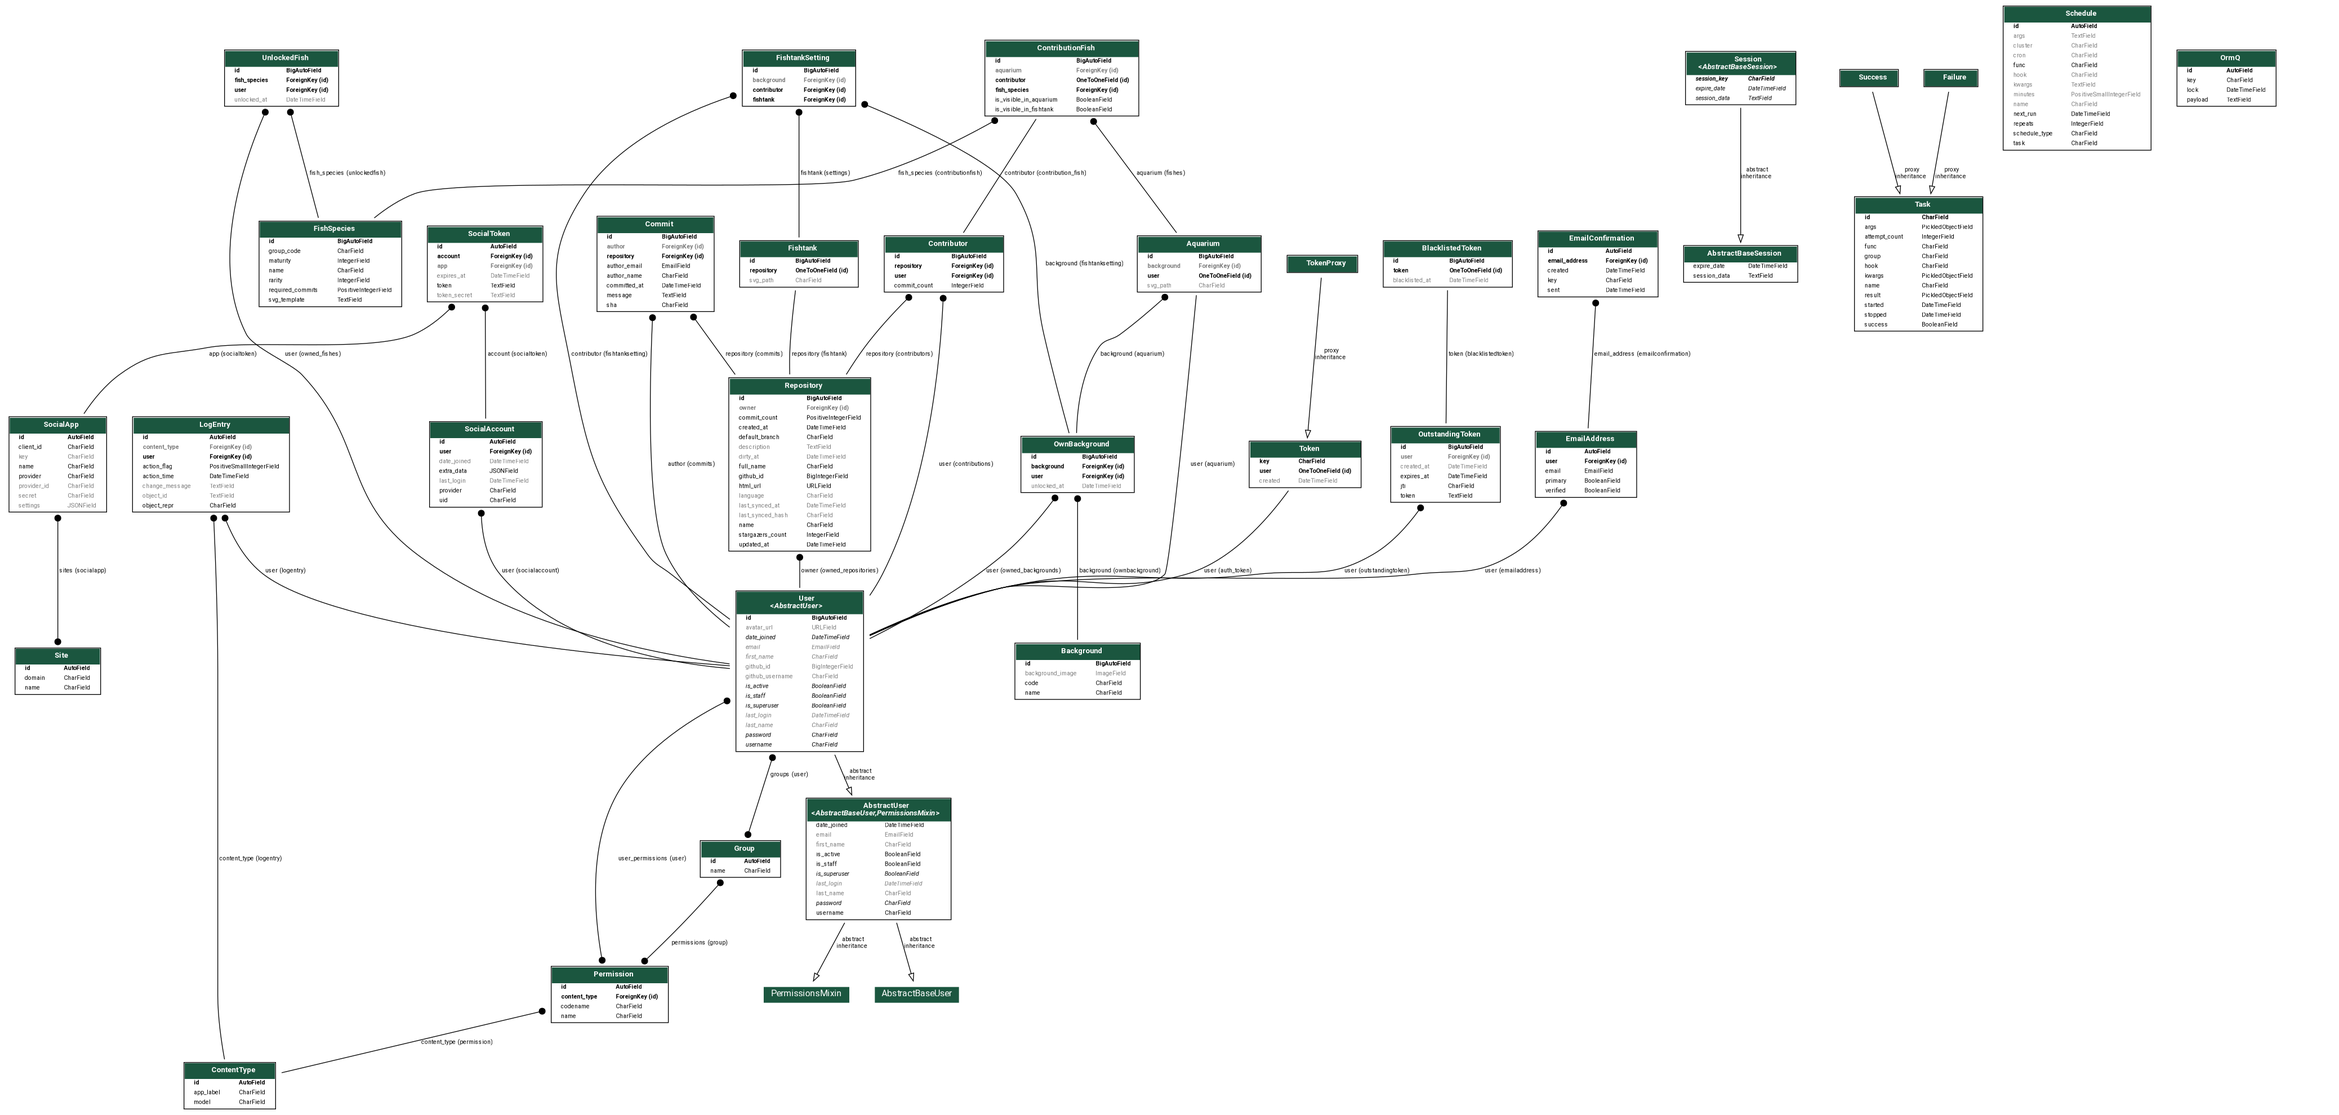
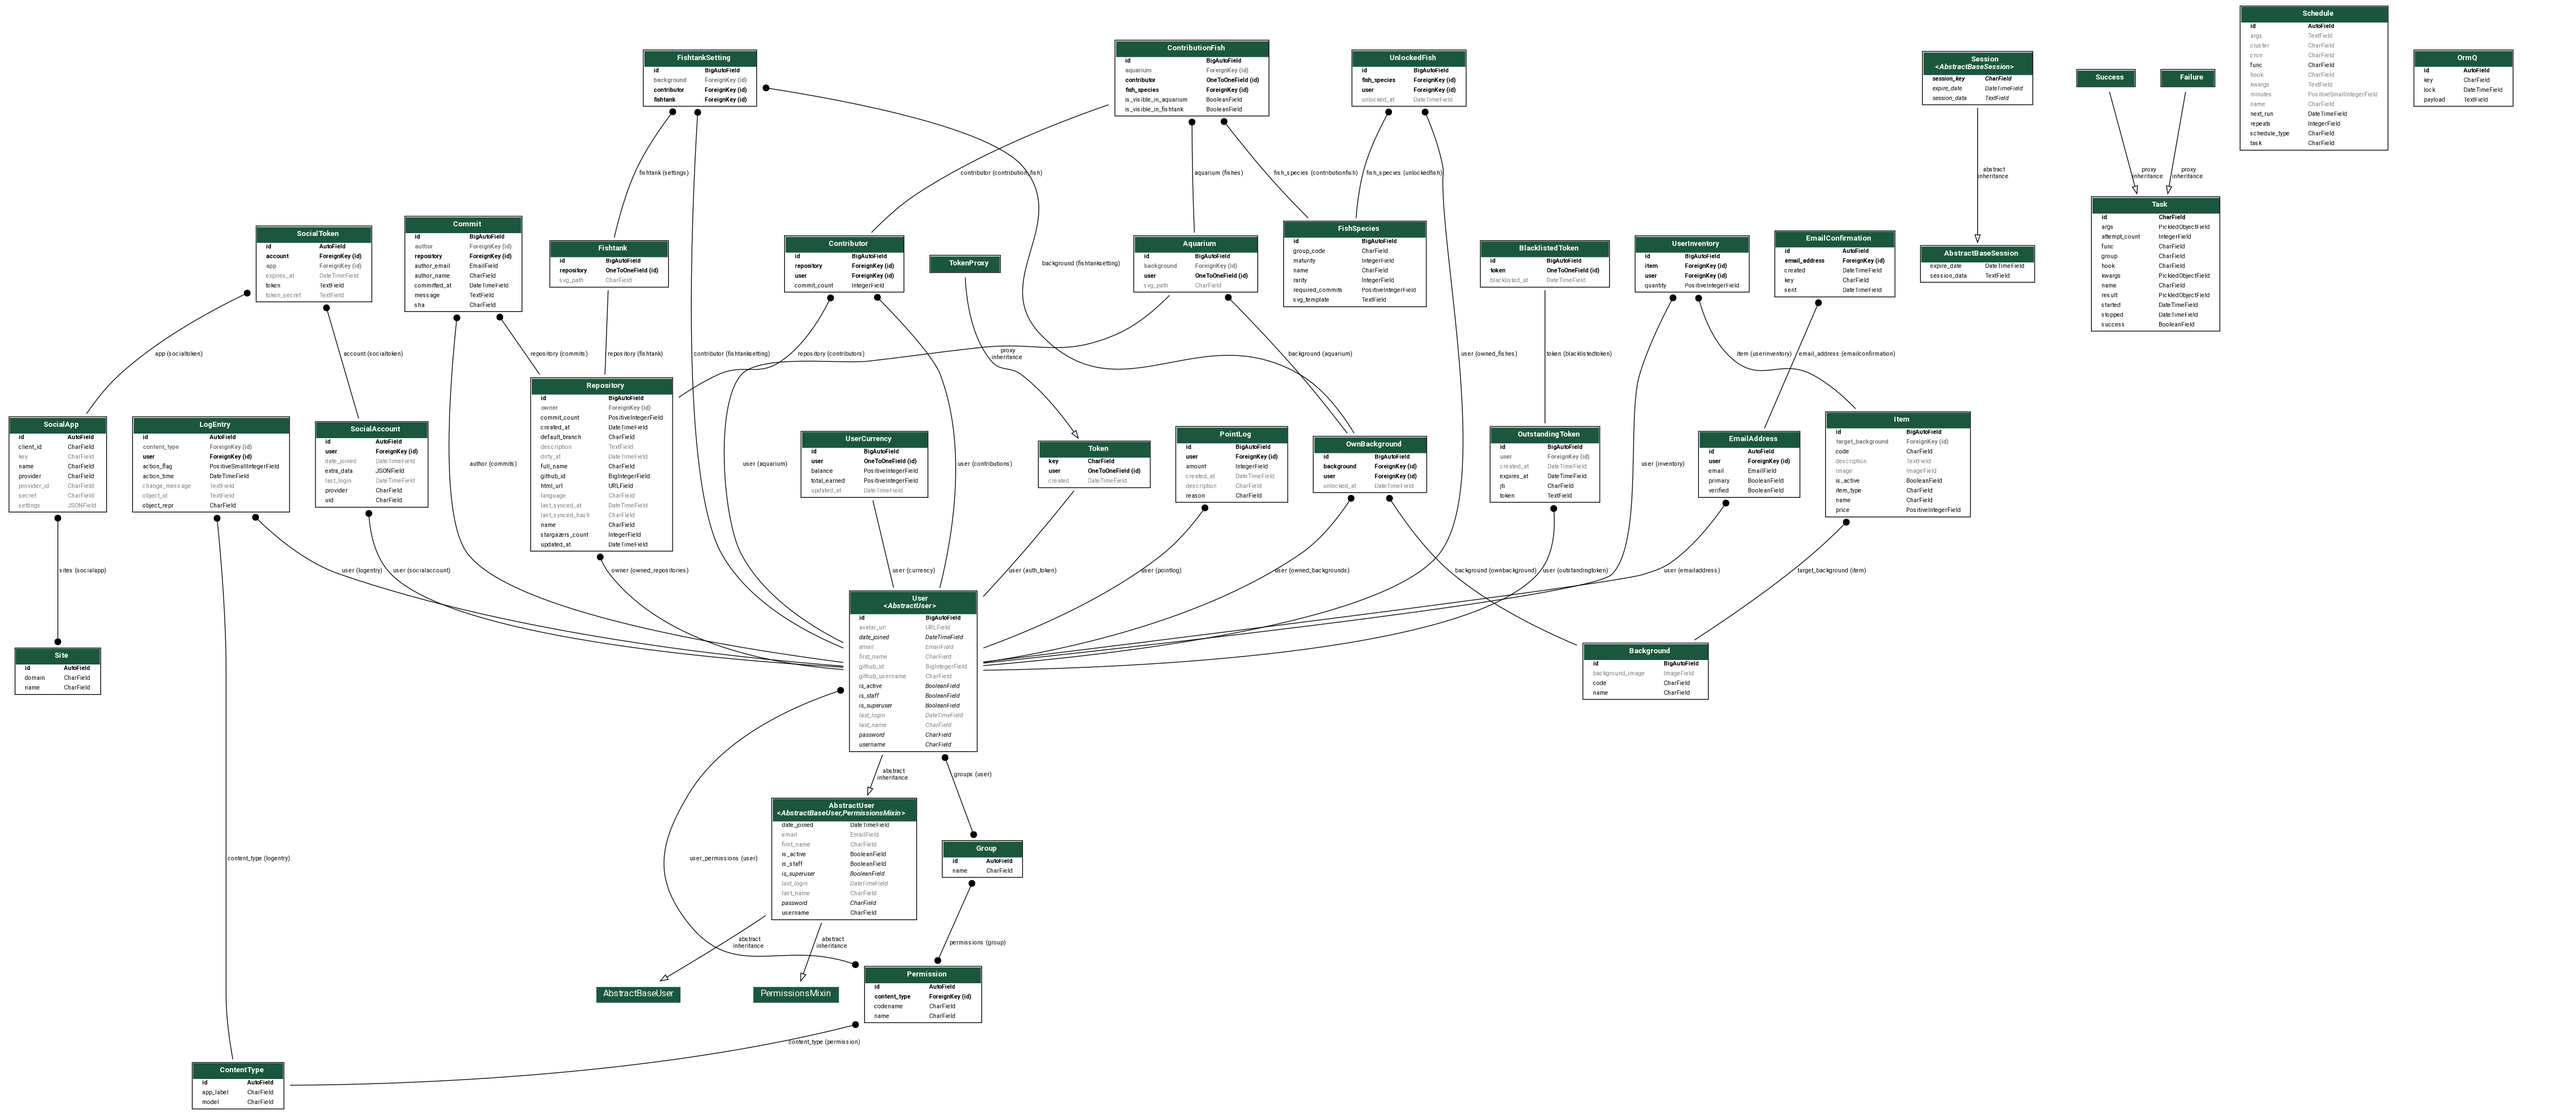
[feat] startapp shop

diff --git a/apps/shop/migrations/0001_initial.py b/apps/shop/migrations/0001_initial.py
@@ -1,0 +1,51 @@
+# Generated by Django 4.2.27 on 2025-12-18 05:06
+
+from django.conf import settings
+from django.db import migrations, models
+import django.db.models.deletion
+
+
+class Migration(migrations.Migration):
+
+    initial = True
+
+    dependencies = [
+        migrations.swappable_dependency(settings.AUTH_USER_MODEL),
+        ('items', '0003_item'),
+    ]
+
+    operations = [
+        migrations.CreateModel(
+            name='UserCurrency',
+            fields=[
+                ('id', models.BigAutoField(auto_created=True, primary_key=True, serialize=False, verbose_name='ID')),
+                ('balance', models.PositiveIntegerField(default=0)),
+                ('total_earned', models.PositiveIntegerField(default=0, help_text='누적 획득량(통계용)')),
+                ('updated_at', models.DateTimeField(auto_now=True)),
+                ('user', models.OneToOneField(on_delete=django.db.models.deletion.CASCADE, related_name='currency', to=settings.AUTH_USER_MODEL)),
+            ],
+        ),
+        migrations.CreateModel(
+            name='PointLog',
+            fields=[
+                ('id', models.BigAutoField(auto_created=True, primary_key=True, serialize=False, verbose_name='ID')),
+                ('amount', models.IntegerField(help_text='변동량 (양수: 획득, 음수: 소비)')),
+                ('reason', models.CharField(choices=[('COMMIT', 'Commit Reward'), ('BUY', 'Shop Purchase'), ('USE', 'Item Usage'), ('ADMIN', 'Admin Adjustment')], max_length=20)),
+                ('description', models.CharField(blank=True, max_length=255)),
+                ('created_at', models.DateTimeField(auto_now_add=True)),
+                ('user', models.ForeignKey(on_delete=django.db.models.deletion.CASCADE, to=settings.AUTH_USER_MODEL)),
+            ],
+        ),
+        migrations.CreateModel(
+            name='UserInventory',
+            fields=[
+                ('id', models.BigAutoField(auto_created=True, primary_key=True, serialize=False, verbose_name='ID')),
+                ('quantity', models.PositiveIntegerField(default=0)),
+                ('item', models.ForeignKey(on_delete=django.db.models.deletion.CASCADE, to='items.item')),
+                ('user', models.ForeignKey(on_delete=django.db.models.deletion.CASCADE, related_name='inventory', to=settings.AUTH_USER_MODEL)),
+            ],
+            options={
+                'unique_together': {('user', 'item')},
+            },
+        ),
+    ]

diff --git a/apps/shop/models.py b/apps/shop/models.py
@@ -1,0 +1,45 @@
+from django.db import models
+from django.conf import settings
+from apps.items.models import Item  # items 앱 참조
+
+class UserCurrency(models.Model):
+    """
+    유저의 재화 보유량
+    """
+    user = models.OneToOneField(settings.AUTH_USER_MODEL, on_delete=models.CASCADE, related_name='currency')
+    balance = models.PositiveIntegerField(default=0)
+    total_earned = models.PositiveIntegerField(default=0, help_text="누적 획득량(통계용)")
+    updated_at = models.DateTimeField(auto_now=True)
+
+    def __str__(self):
+        return f"{self.user.username}: {self.balance} P"
+
+class UserInventory(models.Model):
+    """
+    유저가 보유한 아이템 (수량 관리)
+    """
+    user = models.ForeignKey(settings.AUTH_USER_MODEL, on_delete=models.CASCADE, related_name='inventory')
+    item = models.ForeignKey(Item, on_delete=models.CASCADE)
+    quantity = models.PositiveIntegerField(default=0)
+
+    class Meta:
+        unique_together = ('user', 'item') # 유저당 아이템별로 레코드 하나씩
+
+    def __str__(self):
+        return f"{self.user.username} has {self.quantity} x {self.item.name}"
+
+class PointLog(models.Model):
+    """
+    재화 변동 로그 (Audit Log)
+    """
+    class Reason(models.TextChoices):
+        COMMIT_REWARD = 'COMMIT', 'Commit Reward'
+        SHOP_PURCHASE = 'BUY', 'Shop Purchase'
+        ITEM_USE = 'USE', 'Item Usage' # 아이템 사용으로 인한 변동이 있을 경우(현재는 없음)
+        ADMIN = 'ADMIN', 'Admin Adjustment'
+
+    user = models.ForeignKey(settings.AUTH_USER_MODEL, on_delete=models.CASCADE)
+    amount = models.IntegerField(help_text="변동량 (양수: 획득, 음수: 소비)")
+    reason = models.CharField(max_length=20, choices=Reason.choices)
+    description = models.CharField(max_length=255, blank=True)
+    created_at = models.DateTimeField(auto_now_add=True)

diff --git a/apps/items/migrations/0003_item.py b/apps/items/migrations/0003_item.py
@@ -1,0 +1,28 @@
+# Generated by Django 4.2.27 on 2025-12-18 05:04
+
+from django.db import migrations, models
+import django.db.models.deletion
+
+
+class Migration(migrations.Migration):
+
+    dependencies = [
+        ('items', '0002_remove_background_svg_template_and_more'),
+    ]
+
+    operations = [
+        migrations.CreateModel(
+            name='Item',
+            fields=[
+                ('id', models.BigAutoField(auto_created=True, primary_key=True, serialize=False, verbose_name='ID')),
+                ('code', models.CharField(help_text='아이템 식별 코드 (예: TICKET_REROLL)', max_length=50, unique=True)),
+                ('name', models.CharField(max_length=100)),
+                ('description', models.TextField(blank=True)),
+                ('item_type', models.CharField(choices=[('REROLL', 'Re-roll Ticket'), ('BG_UNLOCK', 'Background Unlock')], max_length=20)),
+                ('price', models.PositiveIntegerField(default=10, help_text='구매 가격 (Points)')),
+                ('image', models.ImageField(blank=True, null=True, upload_to='items/')),
+                ('is_active', models.BooleanField(default=True, help_text='상점 노출 여부')),
+                ('target_background', models.ForeignKey(blank=True, help_text='배경 해금권일 경우 연결된 배경 객체', null=True, on_delete=django.db.models.deletion.SET_NULL, to='items.background')),
+            ],
+        ),
+    ]

diff --git a/apps/items/models.py b/apps/items/models.py
@@ -83,3 +83,32 @@ class Background(models.Model):
 
     def __str__(self):
         return self.name
+
+class Item(models.Model):
+    class ItemType(models.TextChoices):
+        REROLL_TICKET = 'REROLL', 'Re-roll Ticket'       # 물고기 리롤권
+        BG_UNLOCK = 'BG_UNLOCK', 'Background Unlock'     # 배경 해금권
+
+    code = models.CharField(max_length=50, unique=True, help_text="아이템 식별 코드 (예: TICKET_REROLL)")
+    name = models.CharField(max_length=100)
+    description = models.TextField(blank=True)
+    item_type = models.CharField(max_length=20, choices=ItemType.choices)
+    
+    # 가격 정보 (MVP 단계에서는 변동 가격 등 복잡한 로직 없이 고정 가격 사용)
+    price = models.PositiveIntegerField(default=10, help_text="구매 가격 (Points)")
+    
+    # 배경 해금권일 경우, 어떤 배경을 해금하는지 연결
+    # 리롤권이라면 이 필드는 비워둠 (Null)
+    target_background = models.ForeignKey(
+        Background, 
+        on_delete=models.SET_NULL, 
+        null=True, 
+        blank=True,
+        help_text="배경 해금권일 경우 연결된 배경 객체"
+    )
+
+    image = models.ImageField(upload_to='items/', null=True, blank=True)
+    is_active = models.BooleanField(default=True, help_text="상점 노출 여부")
+
+    def __str__(self):
+        return f"[{self.item_type}] {self.name} ({self.price}P)"

diff --git a/GithubAquarium/settings.py b/GithubAquarium/settings.py
@@ -86,6 +86,7 @@ INSTALLED_APPS = [
     'apps.repositories',
     'apps.items',
     'apps.aquatics',
+    'apps.shop',
 
     # Development tools
     'django_extensions',

diff --git a/apps/shop/apps.py b/apps/shop/apps.py
@@ -1,0 +1,6 @@
+from django.apps import AppConfig
+
+
+class ShopConfig(AppConfig):
+    default_auto_field = 'django.db.models.BigAutoField'
+    name = 'apps.shop'

diff --git a/apps/shop/admin.py b/apps/shop/admin.py
@@ -1,0 +1,2 @@
+
+# Register your models here.

diff --git a/apps/shop/tests.py b/apps/shop/tests.py
@@ -1,0 +1,2 @@
+
+# Create your tests here.

diff --git a/apps/shop/views.py b/apps/shop/views.py
@@ -1,0 +1,2 @@
+
+# Create your views here.
